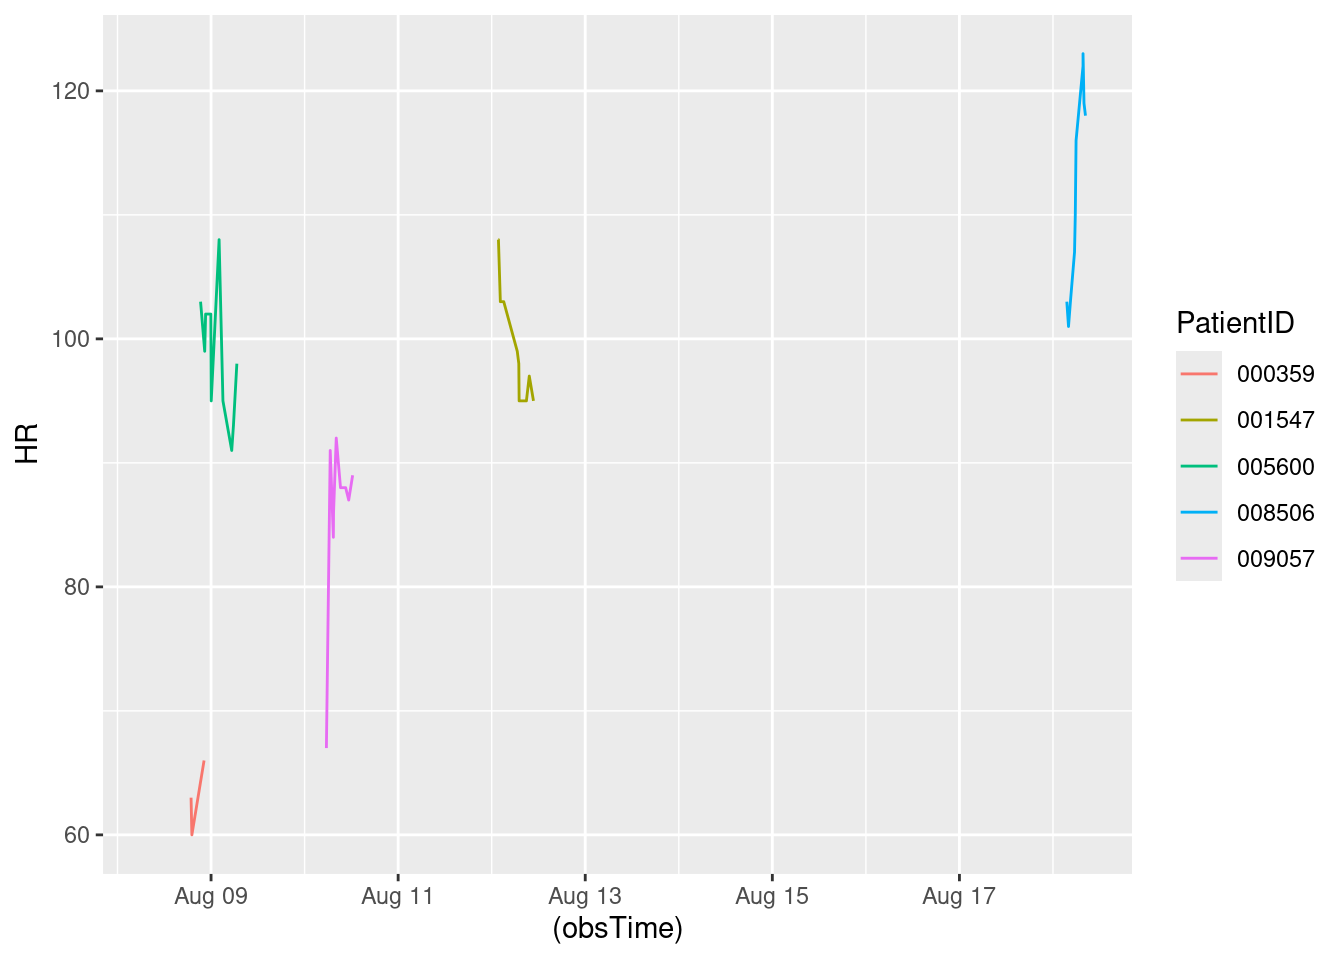
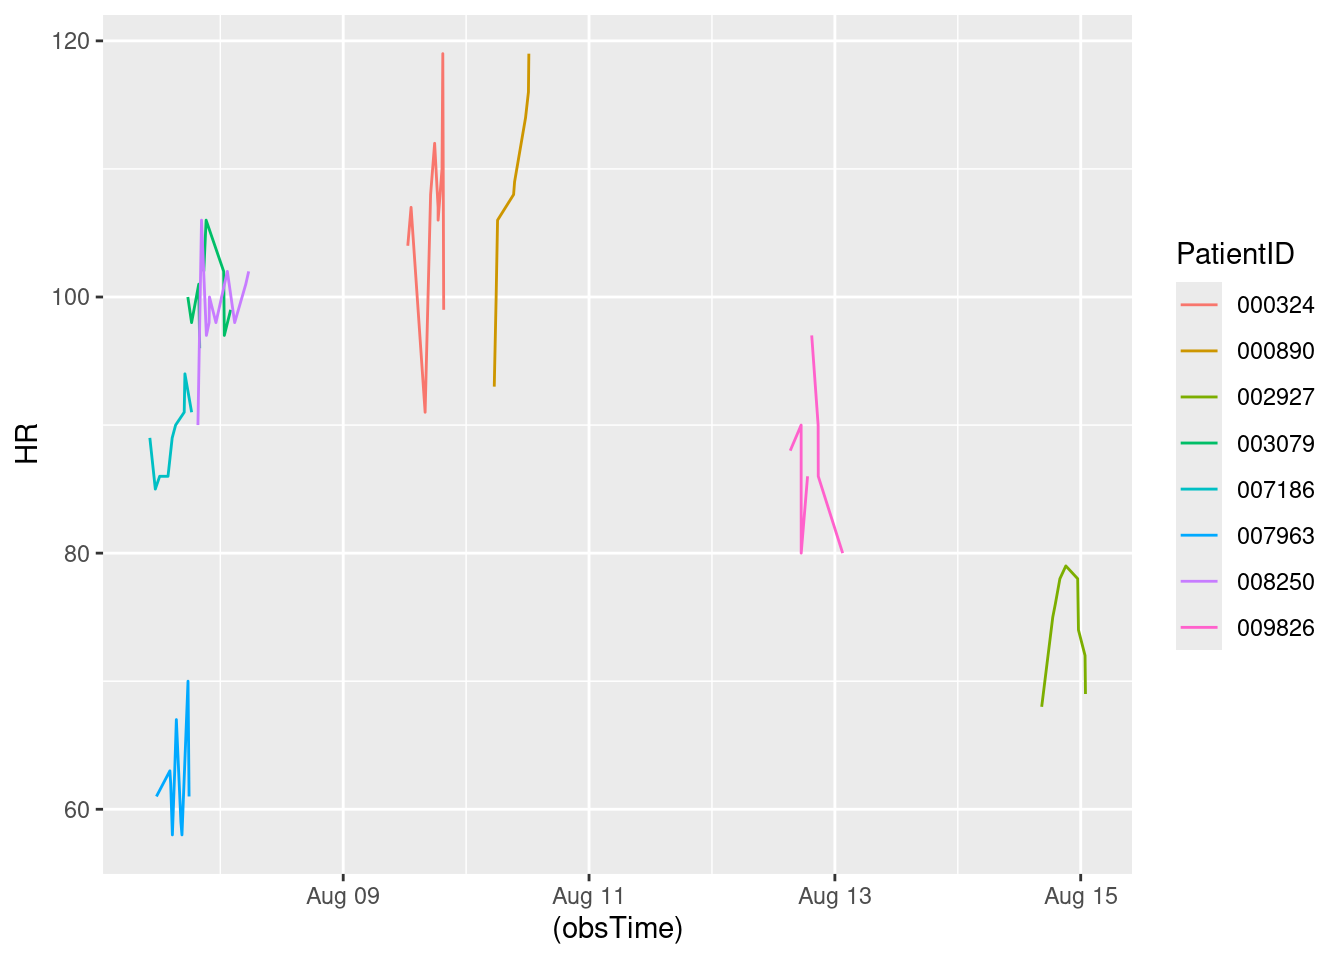
Updated report

diff --git a/HW7.html b/HW7.html
@@ -152,7 +152,7 @@ The following object is masked from 'package:purrr':
 </div>
 <div class="sourceCode cell-code" id="cb8"><pre class="sourceCode r code-with-copy"><code class="sourceCode r"><span id="cb8-1"><a href="#cb8-1" aria-hidden="true" tabindex="-1"></a><span class="fu">toc</span>()</span></code><button title="Copy to Clipboard" class="code-copy-button"><i class="bi"></i></button></pre></div>
 <div class="cell-output cell-output-stdout">
-<pre><code>13.401 sec elapsed</code></pre>
+<pre><code>15.078 sec elapsed</code></pre>
 </div>
 <div class="sourceCode cell-code" id="cb10"><pre class="sourceCode r code-with-copy"><code class="sourceCode r"><span id="cb10-1"><a href="#cb10-1" aria-hidden="true" tabindex="-1"></a><span class="fu">tic</span>()</span>
 <span id="cb10-2"><a href="#cb10-2" aria-hidden="true" tabindex="-1"></a>test1<span class="ot">=</span><span class="fu">makeSepsisDataset</span>(<span class="at">n=</span><span class="dv">50</span>,<span class="at">read_fn =</span> <span class="st">"read_delim"</span>)</span>
@@ -162,7 +162,7 @@ The following object is masked from 'package:purrr':
 </div>
 <div class="sourceCode cell-code" id="cb12"><pre class="sourceCode r code-with-copy"><code class="sourceCode r"><span id="cb12-1"><a href="#cb12-1" aria-hidden="true" tabindex="-1"></a><span class="fu">toc</span>()</span></code><button title="Copy to Clipboard" class="code-copy-button"><i class="bi"></i></button></pre></div>
 <div class="cell-output cell-output-stdout">
-<pre><code>8.469 sec elapsed</code></pre>
+<pre><code>11.119 sec elapsed</code></pre>
 </div>
 <div class="sourceCode cell-code" id="cb14"><pre class="sourceCode r code-with-copy"><code class="sourceCode r"><span id="cb14-1"><a href="#cb14-1" aria-hidden="true" tabindex="-1"></a><span class="fu">tic</span>()</span>
 <span id="cb14-2"><a href="#cb14-2" aria-hidden="true" tabindex="-1"></a>test1<span class="ot">=</span><span class="fu">makeSepsisDataset</span>(<span class="at">n=</span><span class="dv">100</span>,<span class="at">read_fn =</span> <span class="st">"fread"</span>)</span>
@@ -172,7 +172,7 @@ The following object is masked from 'package:purrr':
 </div>
 <div class="sourceCode cell-code" id="cb16"><pre class="sourceCode r code-with-copy"><code class="sourceCode r"><span id="cb16-1"><a href="#cb16-1" aria-hidden="true" tabindex="-1"></a><span class="fu">toc</span>()</span></code><button title="Copy to Clipboard" class="code-copy-button"><i class="bi"></i></button></pre></div>
 <div class="cell-output cell-output-stdout">
-<pre><code>22.211 sec elapsed</code></pre>
+<pre><code>27.889 sec elapsed</code></pre>
 </div>
 <div class="sourceCode cell-code" id="cb18"><pre class="sourceCode r code-with-copy"><code class="sourceCode r"><span id="cb18-1"><a href="#cb18-1" aria-hidden="true" tabindex="-1"></a><span class="fu">tic</span>()</span>
 <span id="cb18-2"><a href="#cb18-2" aria-hidden="true" tabindex="-1"></a>test1<span class="ot">=</span><span class="fu">makeSepsisDataset</span>(<span class="at">n=</span><span class="dv">100</span>,<span class="at">read_fn =</span> <span class="st">"read_delim"</span>)</span>
@@ -182,7 +182,7 @@ The following object is masked from 'package:purrr':
 </div>
 <div class="sourceCode cell-code" id="cb20"><pre class="sourceCode r code-with-copy"><code class="sourceCode r"><span id="cb20-1"><a href="#cb20-1" aria-hidden="true" tabindex="-1"></a><span class="fu">toc</span>()</span></code><button title="Copy to Clipboard" class="code-copy-button"><i class="bi"></i></button></pre></div>
 <div class="cell-output cell-output-stdout">
-<pre><code>16.22 sec elapsed</code></pre>
+<pre><code>21.854 sec elapsed</code></pre>
 </div>
 <div class="sourceCode cell-code" id="cb22"><pre class="sourceCode r code-with-copy"><code class="sourceCode r"><span id="cb22-1"><a href="#cb22-1" aria-hidden="true" tabindex="-1"></a><span class="fu">tic</span>()</span>
 <span id="cb22-2"><a href="#cb22-2" aria-hidden="true" tabindex="-1"></a>test1<span class="ot">=</span><span class="fu">makeSepsisDataset</span>(<span class="at">n=</span><span class="dv">500</span>,<span class="at">read_fn =</span> <span class="st">"fread"</span>)</span>
@@ -192,7 +192,7 @@ The following object is masked from 'package:purrr':
 </div>
 <div class="sourceCode cell-code" id="cb24"><pre class="sourceCode r code-with-copy"><code class="sourceCode r"><span id="cb24-1"><a href="#cb24-1" aria-hidden="true" tabindex="-1"></a><span class="fu">toc</span>()</span></code><button title="Copy to Clipboard" class="code-copy-button"><i class="bi"></i></button></pre></div>
 <div class="cell-output cell-output-stdout">
-<pre><code>120.04 sec elapsed</code></pre>
+<pre><code>139.183 sec elapsed</code></pre>
 </div>
 <div class="sourceCode cell-code" id="cb26"><pre class="sourceCode r code-with-copy"><code class="sourceCode r"><span id="cb26-1"><a href="#cb26-1" aria-hidden="true" tabindex="-1"></a><span class="fu">tic</span>()</span>
 <span id="cb26-2"><a href="#cb26-2" aria-hidden="true" tabindex="-1"></a>test1<span class="ot">=</span><span class="fu">makeSepsisDataset</span>(<span class="at">n=</span><span class="dv">500</span>,<span class="at">read_fn =</span> <span class="st">"read_delim"</span>)</span>
@@ -202,7 +202,7 @@ The following object is masked from 'package:purrr':
 </div>
 <div class="sourceCode cell-code" id="cb28"><pre class="sourceCode r code-with-copy"><code class="sourceCode r"><span id="cb28-1"><a href="#cb28-1" aria-hidden="true" tabindex="-1"></a><span class="fu">toc</span>()</span></code><button title="Copy to Clipboard" class="code-copy-button"><i class="bi"></i></button></pre></div>
 <div class="cell-output cell-output-stdout">
-<pre><code>81.602 sec elapsed</code></pre>
+<pre><code>109.529 sec elapsed</code></pre>
 </div>
 </div>
 <p>Problem 3: Speed reading</p>
@@ -244,7 +244,7 @@ dttm (1): obsTime
 <div class="sourceCode cell-code" id="cb35"><pre class="sourceCode r code-with-copy"><code class="sourceCode r"><span id="cb35-1"><a href="#cb35-1" aria-hidden="true" tabindex="-1"></a><span class="co">#Sys.Date()</span></span>
 <span id="cb35-2"><a href="#cb35-2" aria-hidden="true" tabindex="-1"></a><span class="fu">Sys.time</span>()</span></code><button title="Copy to Clipboard" class="code-copy-button"><i class="bi"></i></button></pre></div>
 <div class="cell-output cell-output-stdout">
-<pre><code>[1] "2024-08-07 05:23:41 UTC"</code></pre>
+<pre><code>[1] "2024-08-07 06:33:34 UTC"</code></pre>
 </div>
 <div class="sourceCode cell-code" id="cb37"><pre class="sourceCode r code-with-copy"><code class="sourceCode r"><span id="cb37-1"><a href="#cb37-1" aria-hidden="true" tabindex="-1"></a>dfnew<span class="ot">=</span>df <span class="sc">%&gt;%</span><span class="fu">subset</span>(SepsisLabel<span class="sc">==</span><span class="dv">1</span>)</span>
 <span id="cb37-2"><a href="#cb37-2" aria-hidden="true" tabindex="-1"></a></span>
@@ -259,20 +259,27 @@ dttm (1): obsTime
 <span id="cb37-11"><a href="#cb37-11" aria-hidden="true" tabindex="-1"></a></span>
 <span id="cb37-12"><a href="#cb37-12" aria-hidden="true" tabindex="-1"></a><span class="fu">print</span>(res)</span></code><button title="Copy to Clipboard" class="code-copy-button"><i class="bi"></i></button></pre></div>
 <div class="cell-output cell-output-stdout">
-<pre><code># A tibble: 5 × 7
-# Groups:   PatientID [5]
+<pre><code># A tibble: 8 × 7
+# Groups:   PatientID [8]
   PatientID ICULOS    HR  Temp  Resp SepsisLabel obsTime            
   &lt;chr&gt;      &lt;int&gt; &lt;int&gt; &lt;dbl&gt; &lt;int&gt;       &lt;int&gt; &lt;dttm&gt;             
-1 000359        42    66  NA      17           1 2024-08-08 22:12:28
-2 001547       126    95  NA      20           1 2024-08-12 10:42:59
-3 005600        50    98  38.1    13           1 2024-08-09 06:37:03
-4 008506       271   118  38.5    27           1 2024-08-18 08:19:59
-5 009057        79    89  NA      17           1 2024-08-10 12:19:23</code></pre>
+1 000324        62    99  NA      27           1 2024-08-09 19:37:09
+2 000890        79   119  NA      24           1 2024-08-10 12:14:49
+3 002927       187    69  37.6    23           1 2024-08-15 00:55:49
+4 003079        21    99  37.9    25           1 2024-08-08 02:01:08
+5 007186        12    91  NA      24           1 2024-08-07 18:23:58
+6 007963        13    61  37.4    18           1 2024-08-07 17:54:03
+7 008250        23   102  37.4    18           1 2024-08-08 05:32:33
+8 009826       139    80  NA      21           1 2024-08-13 01:31:15</code></pre>
 </div>
 </div>
 <div class="cell">
 <div class="sourceCode cell-code" id="cb39"><pre class="sourceCode r code-with-copy"><code class="sourceCode r"><span id="cb39-1"><a href="#cb39-1" aria-hidden="true" tabindex="-1"></a>dfnew <span class="sc">%&gt;%</span></span>
 <span id="cb39-2"><a href="#cb39-2" aria-hidden="true" tabindex="-1"></a>  <span class="fu">ggplot</span>()<span class="sc">+</span><span class="fu">geom_line</span>(<span class="fu">aes</span>(<span class="at">y=</span>HR,<span class="at">x=</span>(obsTime),<span class="at">color=</span>PatientID))</span></code><button title="Copy to Clipboard" class="code-copy-button"><i class="bi"></i></button></pre></div>
+<div class="cell-output cell-output-stderr">
+<pre><code>Warning: Removed 1 row containing missing values or values outside the scale range
+(`geom_line()`).</code></pre>
+</div>
 <div class="cell-output-display">
 <div>
 <figure class="figure">
@@ -285,7 +292,7 @@ dttm (1): obsTime
 <section id="display-the-most-recent-data" class="level2">
 <h2 class="anchored" data-anchor-id="display-the-most-recent-data">Display the most recent data</h2>
 <div class="cell">
-<div class="sourceCode cell-code" id="cb40"><pre class="sourceCode r code-with-copy"><code class="sourceCode r"><span id="cb40-1"><a href="#cb40-1" aria-hidden="true" tabindex="-1"></a>most_recent_data</span></code><button title="Copy to Clipboard" class="code-copy-button"><i class="bi"></i></button></pre></div>
+<div class="sourceCode cell-code" id="cb41"><pre class="sourceCode r code-with-copy"><code class="sourceCode r"><span id="cb41-1"><a href="#cb41-1" aria-hidden="true" tabindex="-1"></a>most_recent_data</span></code><button title="Copy to Clipboard" class="code-copy-button"><i class="bi"></i></button></pre></div>
 <div class="cell-output cell-output-stdout">
 <pre><code># A tibble: 50 × 7
 # Groups:   PatientID [50]
@@ -308,32 +315,32 @@ dttm (1): obsTime
 <section id="calculate-the-difference" class="level2">
 <h2 class="anchored" data-anchor-id="calculate-the-difference">Calculate the difference</h2>
 <div class="cell">
-<div class="sourceCode cell-code" id="cb42"><pre class="sourceCode r code-with-copy"><code class="sourceCode r"><span id="cb42-1"><a href="#cb42-1" aria-hidden="true" tabindex="-1"></a><span class="fu">library</span>(dplyr)</span>
-<span id="cb42-2"><a href="#cb42-2" aria-hidden="true" tabindex="-1"></a><span class="fu">library</span>(tidyr)</span>
-<span id="cb42-3"><a href="#cb42-3" aria-hidden="true" tabindex="-1"></a><span class="fu">library</span>(knitr)</span>
-<span id="cb42-4"><a href="#cb42-4" aria-hidden="true" tabindex="-1"></a>get_observation_data <span class="ot">&lt;-</span> <span class="cf">function</span>(data, n, column_suffix) {</span>
-<span id="cb42-5"><a href="#cb42-5" aria-hidden="true" tabindex="-1"></a>  data <span class="sc">%&gt;%</span></span>
-<span id="cb42-6"><a href="#cb42-6" aria-hidden="true" tabindex="-1"></a>    <span class="fu">group_by</span>(PatientID) <span class="sc">%&gt;%</span></span>
-<span id="cb42-7"><a href="#cb42-7" aria-hidden="true" tabindex="-1"></a>    <span class="fu">slice_max</span>(<span class="at">order_by =</span> obsTime, <span class="at">n =</span> n) <span class="sc">%&gt;%</span></span>
-<span id="cb42-8"><a href="#cb42-8" aria-hidden="true" tabindex="-1"></a>    <span class="fu">select</span>(<span class="sc">-</span><span class="fu">c</span>(ICULOS, SepsisLabel, obsTime)) <span class="sc">%&gt;%</span></span>
-<span id="cb42-9"><a href="#cb42-9" aria-hidden="true" tabindex="-1"></a>    <span class="fu">rename_at</span>(<span class="fu">vars</span>(HR, Temp, Resp),</span>
-<span id="cb42-10"><a href="#cb42-10" aria-hidden="true" tabindex="-1"></a>              <span class="fu">list</span>(<span class="sc">~</span><span class="fu">paste0</span>(., <span class="st">"_"</span>, column_suffix)))</span>
-<span id="cb42-11"><a href="#cb42-11" aria-hidden="true" tabindex="-1"></a>}</span>
-<span id="cb42-12"><a href="#cb42-12" aria-hidden="true" tabindex="-1"></a></span>
-<span id="cb42-13"><a href="#cb42-13" aria-hidden="true" tabindex="-1"></a></span>
-<span id="cb42-14"><a href="#cb42-14" aria-hidden="true" tabindex="-1"></a></span>
-<span id="cb42-15"><a href="#cb42-15" aria-hidden="true" tabindex="-1"></a></span>
-<span id="cb42-16"><a href="#cb42-16" aria-hidden="true" tabindex="-1"></a>last_obs <span class="ot">&lt;-</span> <span class="fu">get_observation_data</span>(new_data, <span class="dv">1</span>, <span class="st">"last"</span>)</span>
-<span id="cb42-17"><a href="#cb42-17" aria-hidden="true" tabindex="-1"></a>penultimate_obs <span class="ot">&lt;-</span> <span class="fu">get_observation_data</span>(new_data, <span class="dv">2</span>, <span class="st">"penult"</span>)</span>
-<span id="cb42-18"><a href="#cb42-18" aria-hidden="true" tabindex="-1"></a>joined_data <span class="ot">&lt;-</span> <span class="fu">full_join</span>(last_obs, penultimate_obs) <span class="sc">%&gt;%</span></span>
-<span id="cb42-19"><a href="#cb42-19" aria-hidden="true" tabindex="-1"></a>  <span class="fu">transmute</span>(PatientID,</span>
-<span id="cb42-20"><a href="#cb42-20" aria-hidden="true" tabindex="-1"></a>            <span class="st">`</span><span class="at">Temperature change</span><span class="st">`</span> <span class="ot">=</span> Temp_last <span class="sc">-</span> Temp_penult,</span>
-<span id="cb42-21"><a href="#cb42-21" aria-hidden="true" tabindex="-1"></a>            <span class="st">`</span><span class="at">Heart rate change</span><span class="st">`</span> <span class="ot">=</span> HR_last <span class="sc">-</span> HR_penult,</span>
-<span id="cb42-22"><a href="#cb42-22" aria-hidden="true" tabindex="-1"></a>            <span class="st">`</span><span class="at">Respiratory rate change</span><span class="st">`</span> <span class="ot">=</span> Resp_last <span class="sc">-</span> Resp_penult)</span></code><button title="Copy to Clipboard" class="code-copy-button"><i class="bi"></i></button></pre></div>
+<div class="sourceCode cell-code" id="cb43"><pre class="sourceCode r code-with-copy"><code class="sourceCode r"><span id="cb43-1"><a href="#cb43-1" aria-hidden="true" tabindex="-1"></a><span class="fu">library</span>(dplyr)</span>
+<span id="cb43-2"><a href="#cb43-2" aria-hidden="true" tabindex="-1"></a><span class="fu">library</span>(tidyr)</span>
+<span id="cb43-3"><a href="#cb43-3" aria-hidden="true" tabindex="-1"></a><span class="fu">library</span>(knitr)</span>
+<span id="cb43-4"><a href="#cb43-4" aria-hidden="true" tabindex="-1"></a>get_observation_data <span class="ot">&lt;-</span> <span class="cf">function</span>(data, n, column_suffix) {</span>
+<span id="cb43-5"><a href="#cb43-5" aria-hidden="true" tabindex="-1"></a>  data <span class="sc">%&gt;%</span></span>
+<span id="cb43-6"><a href="#cb43-6" aria-hidden="true" tabindex="-1"></a>    <span class="fu">group_by</span>(PatientID) <span class="sc">%&gt;%</span></span>
+<span id="cb43-7"><a href="#cb43-7" aria-hidden="true" tabindex="-1"></a>    <span class="fu">slice_max</span>(<span class="at">order_by =</span> obsTime, <span class="at">n =</span> n) <span class="sc">%&gt;%</span></span>
+<span id="cb43-8"><a href="#cb43-8" aria-hidden="true" tabindex="-1"></a>    <span class="fu">select</span>(<span class="sc">-</span><span class="fu">c</span>(ICULOS, SepsisLabel, obsTime)) <span class="sc">%&gt;%</span></span>
+<span id="cb43-9"><a href="#cb43-9" aria-hidden="true" tabindex="-1"></a>    <span class="fu">rename_at</span>(<span class="fu">vars</span>(HR, Temp, Resp),</span>
+<span id="cb43-10"><a href="#cb43-10" aria-hidden="true" tabindex="-1"></a>              <span class="fu">list</span>(<span class="sc">~</span><span class="fu">paste0</span>(., <span class="st">"_"</span>, column_suffix)))</span>
+<span id="cb43-11"><a href="#cb43-11" aria-hidden="true" tabindex="-1"></a>}</span>
+<span id="cb43-12"><a href="#cb43-12" aria-hidden="true" tabindex="-1"></a></span>
+<span id="cb43-13"><a href="#cb43-13" aria-hidden="true" tabindex="-1"></a></span>
+<span id="cb43-14"><a href="#cb43-14" aria-hidden="true" tabindex="-1"></a></span>
+<span id="cb43-15"><a href="#cb43-15" aria-hidden="true" tabindex="-1"></a></span>
+<span id="cb43-16"><a href="#cb43-16" aria-hidden="true" tabindex="-1"></a>last_obs <span class="ot">&lt;-</span> <span class="fu">get_observation_data</span>(new_data, <span class="dv">1</span>, <span class="st">"last"</span>)</span>
+<span id="cb43-17"><a href="#cb43-17" aria-hidden="true" tabindex="-1"></a>penultimate_obs <span class="ot">&lt;-</span> <span class="fu">get_observation_data</span>(new_data, <span class="dv">2</span>, <span class="st">"penult"</span>)</span>
+<span id="cb43-18"><a href="#cb43-18" aria-hidden="true" tabindex="-1"></a>joined_data <span class="ot">&lt;-</span> <span class="fu">full_join</span>(last_obs, penultimate_obs) <span class="sc">%&gt;%</span></span>
+<span id="cb43-19"><a href="#cb43-19" aria-hidden="true" tabindex="-1"></a>  <span class="fu">transmute</span>(PatientID,</span>
+<span id="cb43-20"><a href="#cb43-20" aria-hidden="true" tabindex="-1"></a>            <span class="st">`</span><span class="at">Temperature change</span><span class="st">`</span> <span class="ot">=</span> Temp_last <span class="sc">-</span> Temp_penult,</span>
+<span id="cb43-21"><a href="#cb43-21" aria-hidden="true" tabindex="-1"></a>            <span class="st">`</span><span class="at">Heart rate change</span><span class="st">`</span> <span class="ot">=</span> HR_last <span class="sc">-</span> HR_penult,</span>
+<span id="cb43-22"><a href="#cb43-22" aria-hidden="true" tabindex="-1"></a>            <span class="st">`</span><span class="at">Respiratory rate change</span><span class="st">`</span> <span class="ot">=</span> Resp_last <span class="sc">-</span> Resp_penult)</span></code><button title="Copy to Clipboard" class="code-copy-button"><i class="bi"></i></button></pre></div>
 <div class="cell-output cell-output-stderr">
 <pre><code>Joining with `by = join_by(PatientID)`</code></pre>
 </div>
-<div class="sourceCode cell-code" id="cb44"><pre class="sourceCode r code-with-copy"><code class="sourceCode r"><span id="cb44-1"><a href="#cb44-1" aria-hidden="true" tabindex="-1"></a><span class="fu">kable</span>(joined_data, <span class="at">caption =</span> <span class="st">"Patients' Recent Changes in Vital Stats"</span>)</span></code><button title="Copy to Clipboard" class="code-copy-button"><i class="bi"></i></button></pre></div>
+<div class="sourceCode cell-code" id="cb45"><pre class="sourceCode r code-with-copy"><code class="sourceCode r"><span id="cb45-1"><a href="#cb45-1" aria-hidden="true" tabindex="-1"></a><span class="fu">kable</span>(joined_data, <span class="at">caption =</span> <span class="st">"Patients' Recent Changes in Vital Stats"</span>)</span></code><button title="Copy to Clipboard" class="code-copy-button"><i class="bi"></i></button></pre></div>
 <div class="cell-output-display">
 <table class="caption-top table table-sm table-striped small">
 <caption>Patients’ Recent Changes in Vital Stats</caption>
